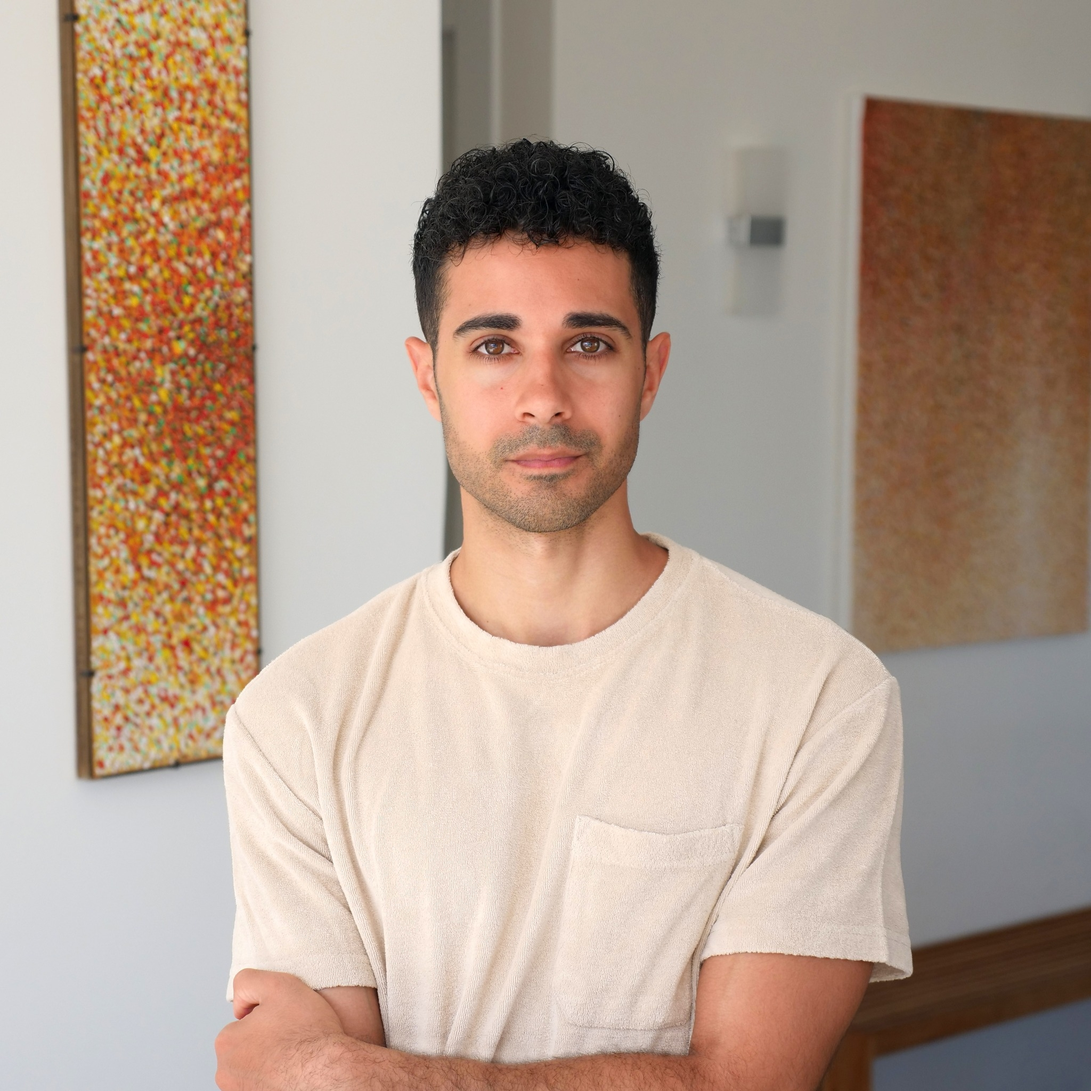
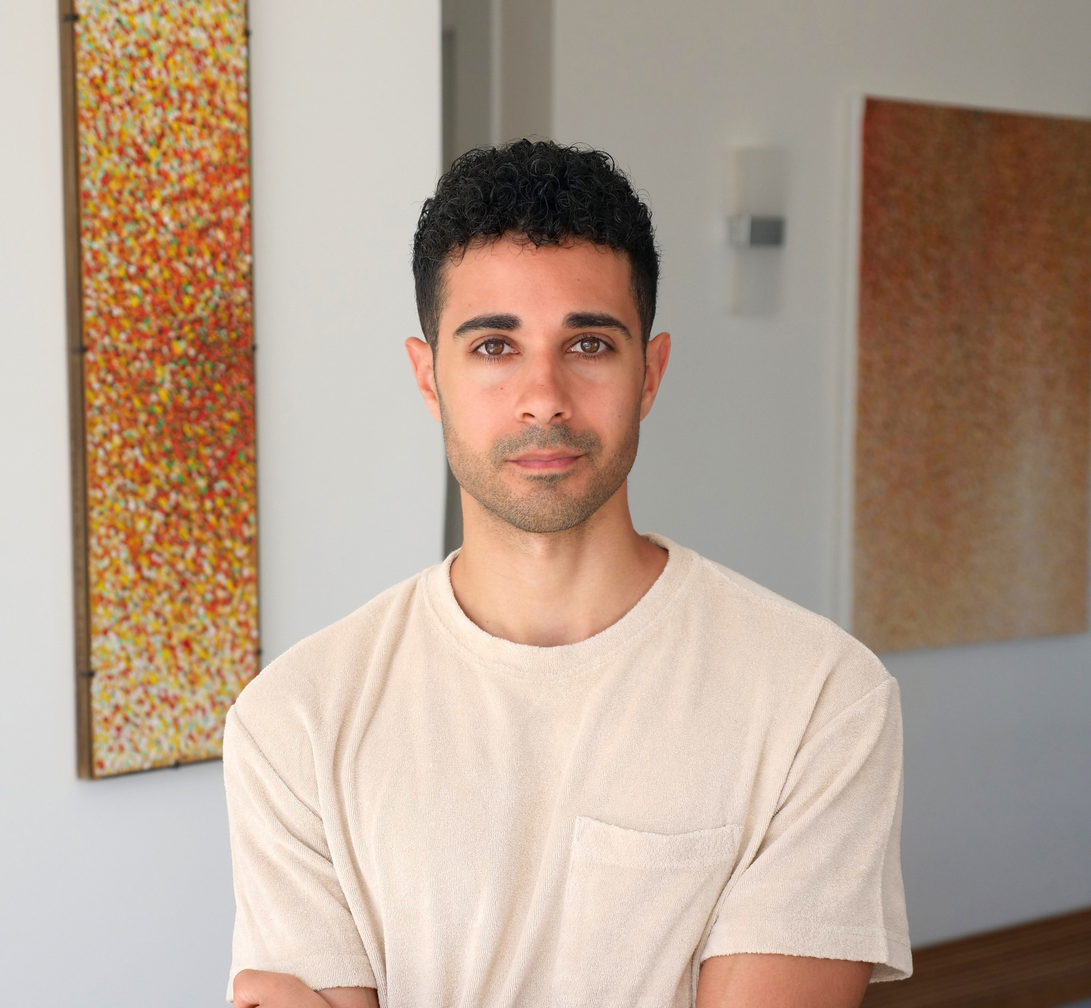
a

diff --git a/index.html b/index.html
@@ -114,7 +114,7 @@
         <p>Gal helps innovative startups to define their unique visual identities. Designing custom, unique, and powerful logos, Gal provides a fundamental asset for young brands that haven't set their visual footprint yet, or a makeover for established brands looking for a fresh rebrand.</p>
         <p>Gal started his creative career as a designer, illustrator, and art director, working with several design studios and startups in Tel Aviv. Being on the founding team of <a target="_blank" href="https://lemonade.com">Lemonade</a> (2016 to 2019), Gal created and developed the iconic brand and led the implementation of the visual identity through the product, marketing, and beyond.</p>
         <p>Over the last 15 years, Gal has been working in the spaces of design, art, entrepreneurship, illustration, product, and marketing. His work has gained massive exposure on social media, making him an influential person in the field. One of his major projects, <a target="_blank" href="https://colorhunt.co">Color Hunt</a>, has become a leading resource for designers and artists with over 1 million monthly users.</p>
-        <img src="img/gal-shir.jpg" style="margin-top:20px; max-width:100%;"/>
+        <img src="img/gal-shir.jpg?2" style="margin-top:20px; max-width:100%;"/>
 
       </div>
     </div>
